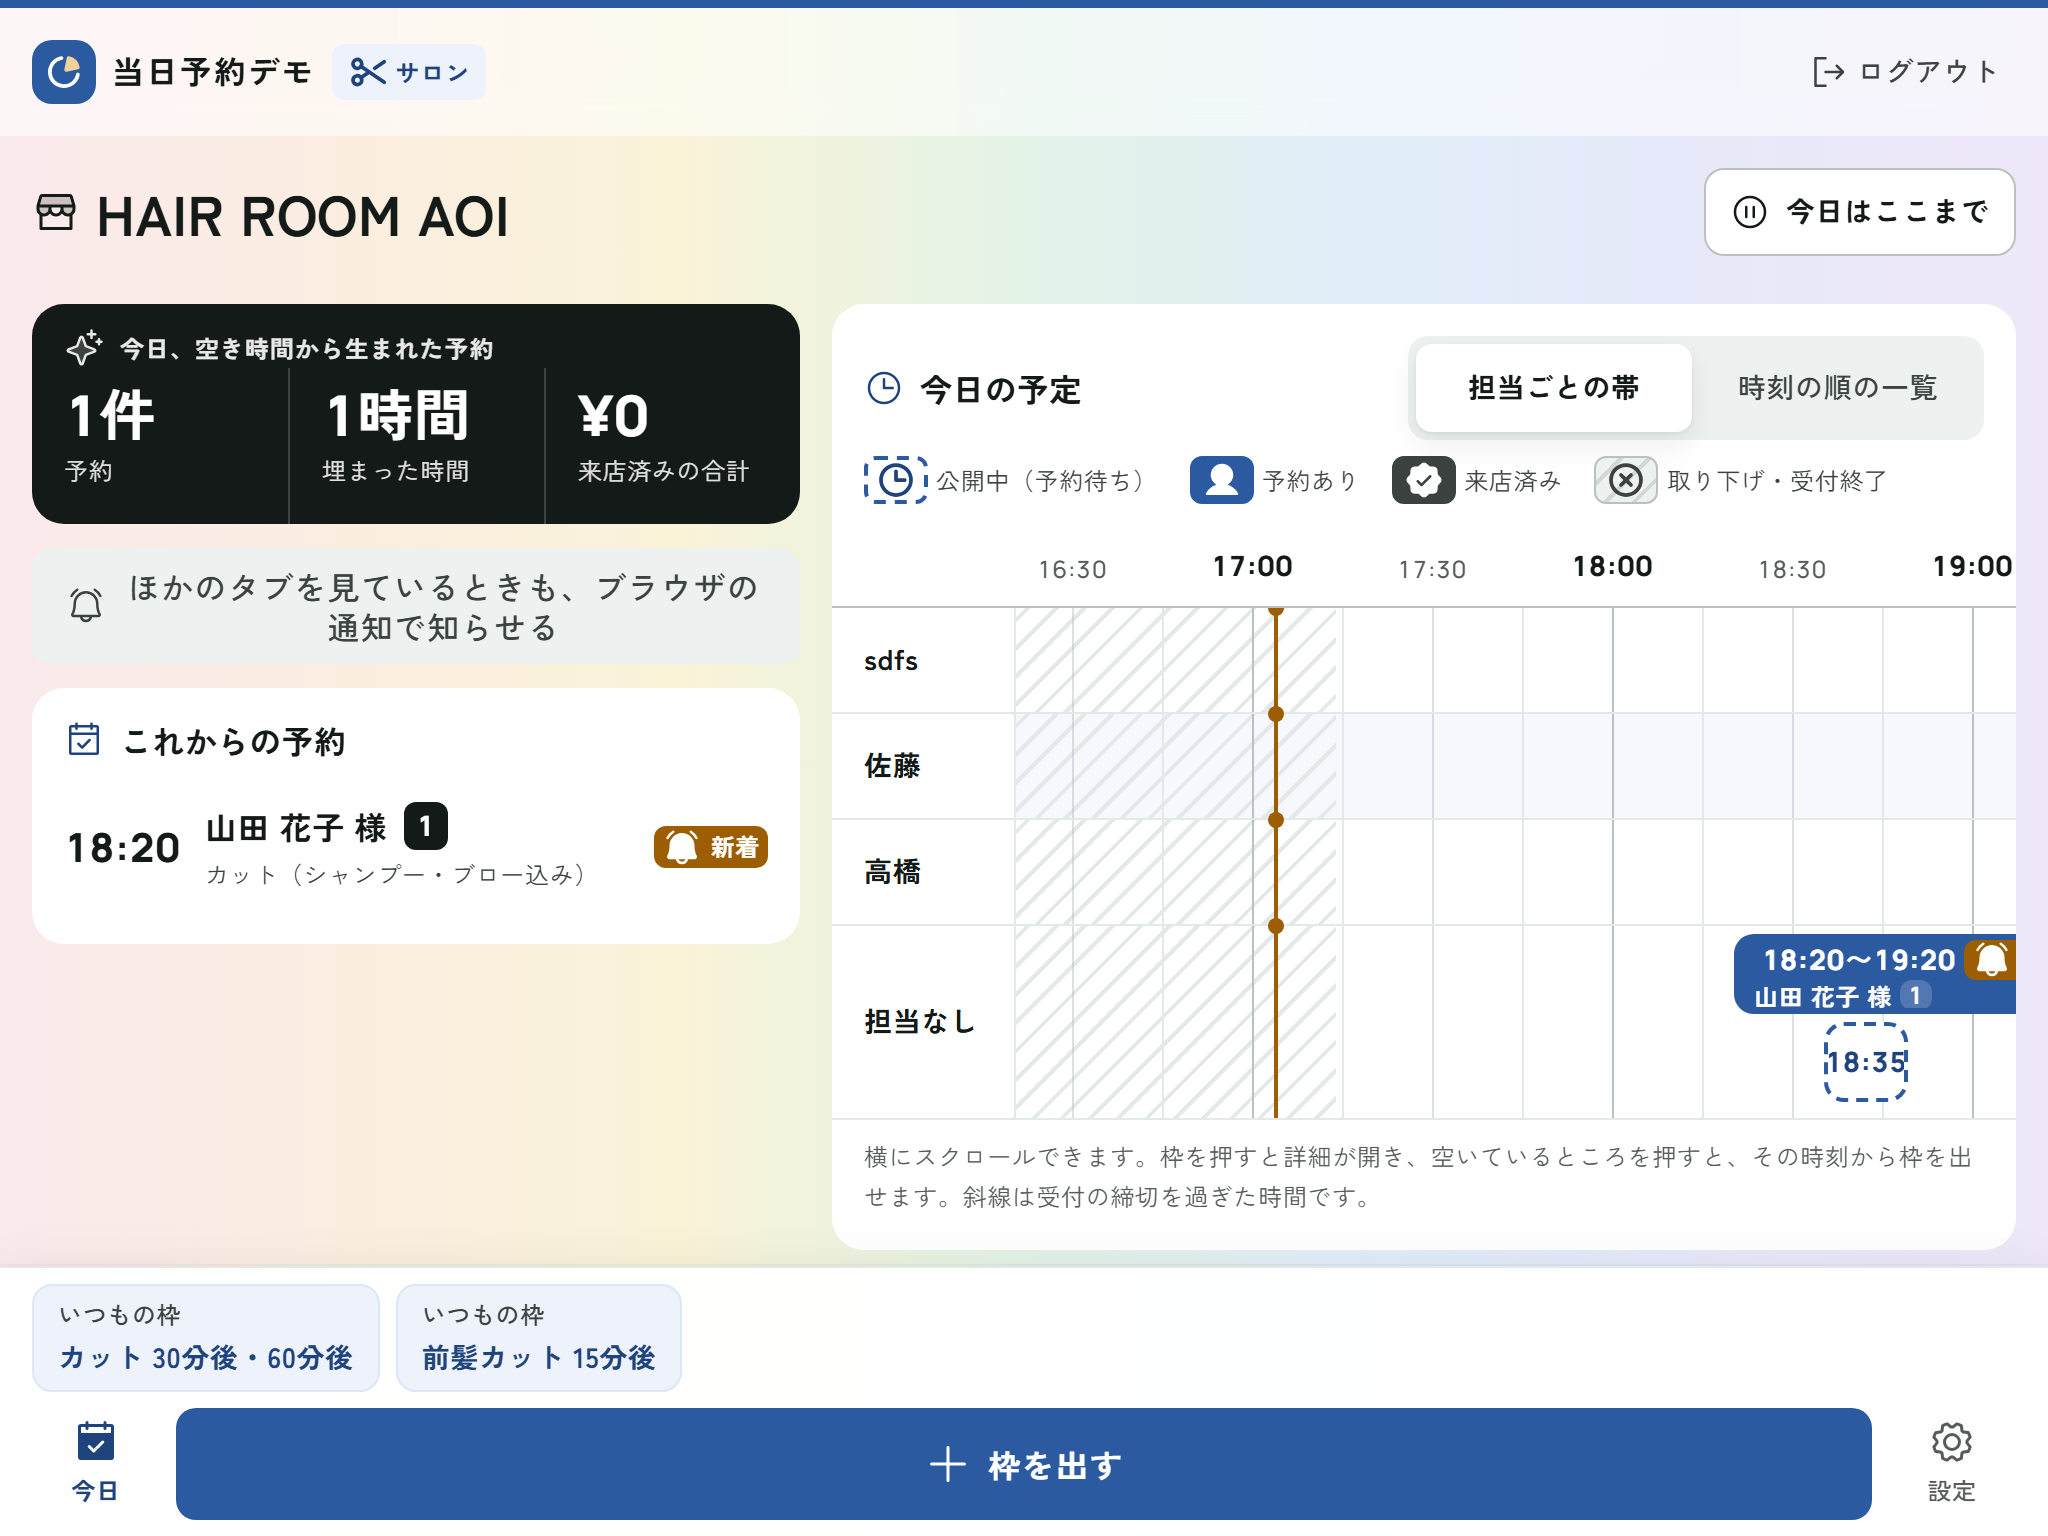
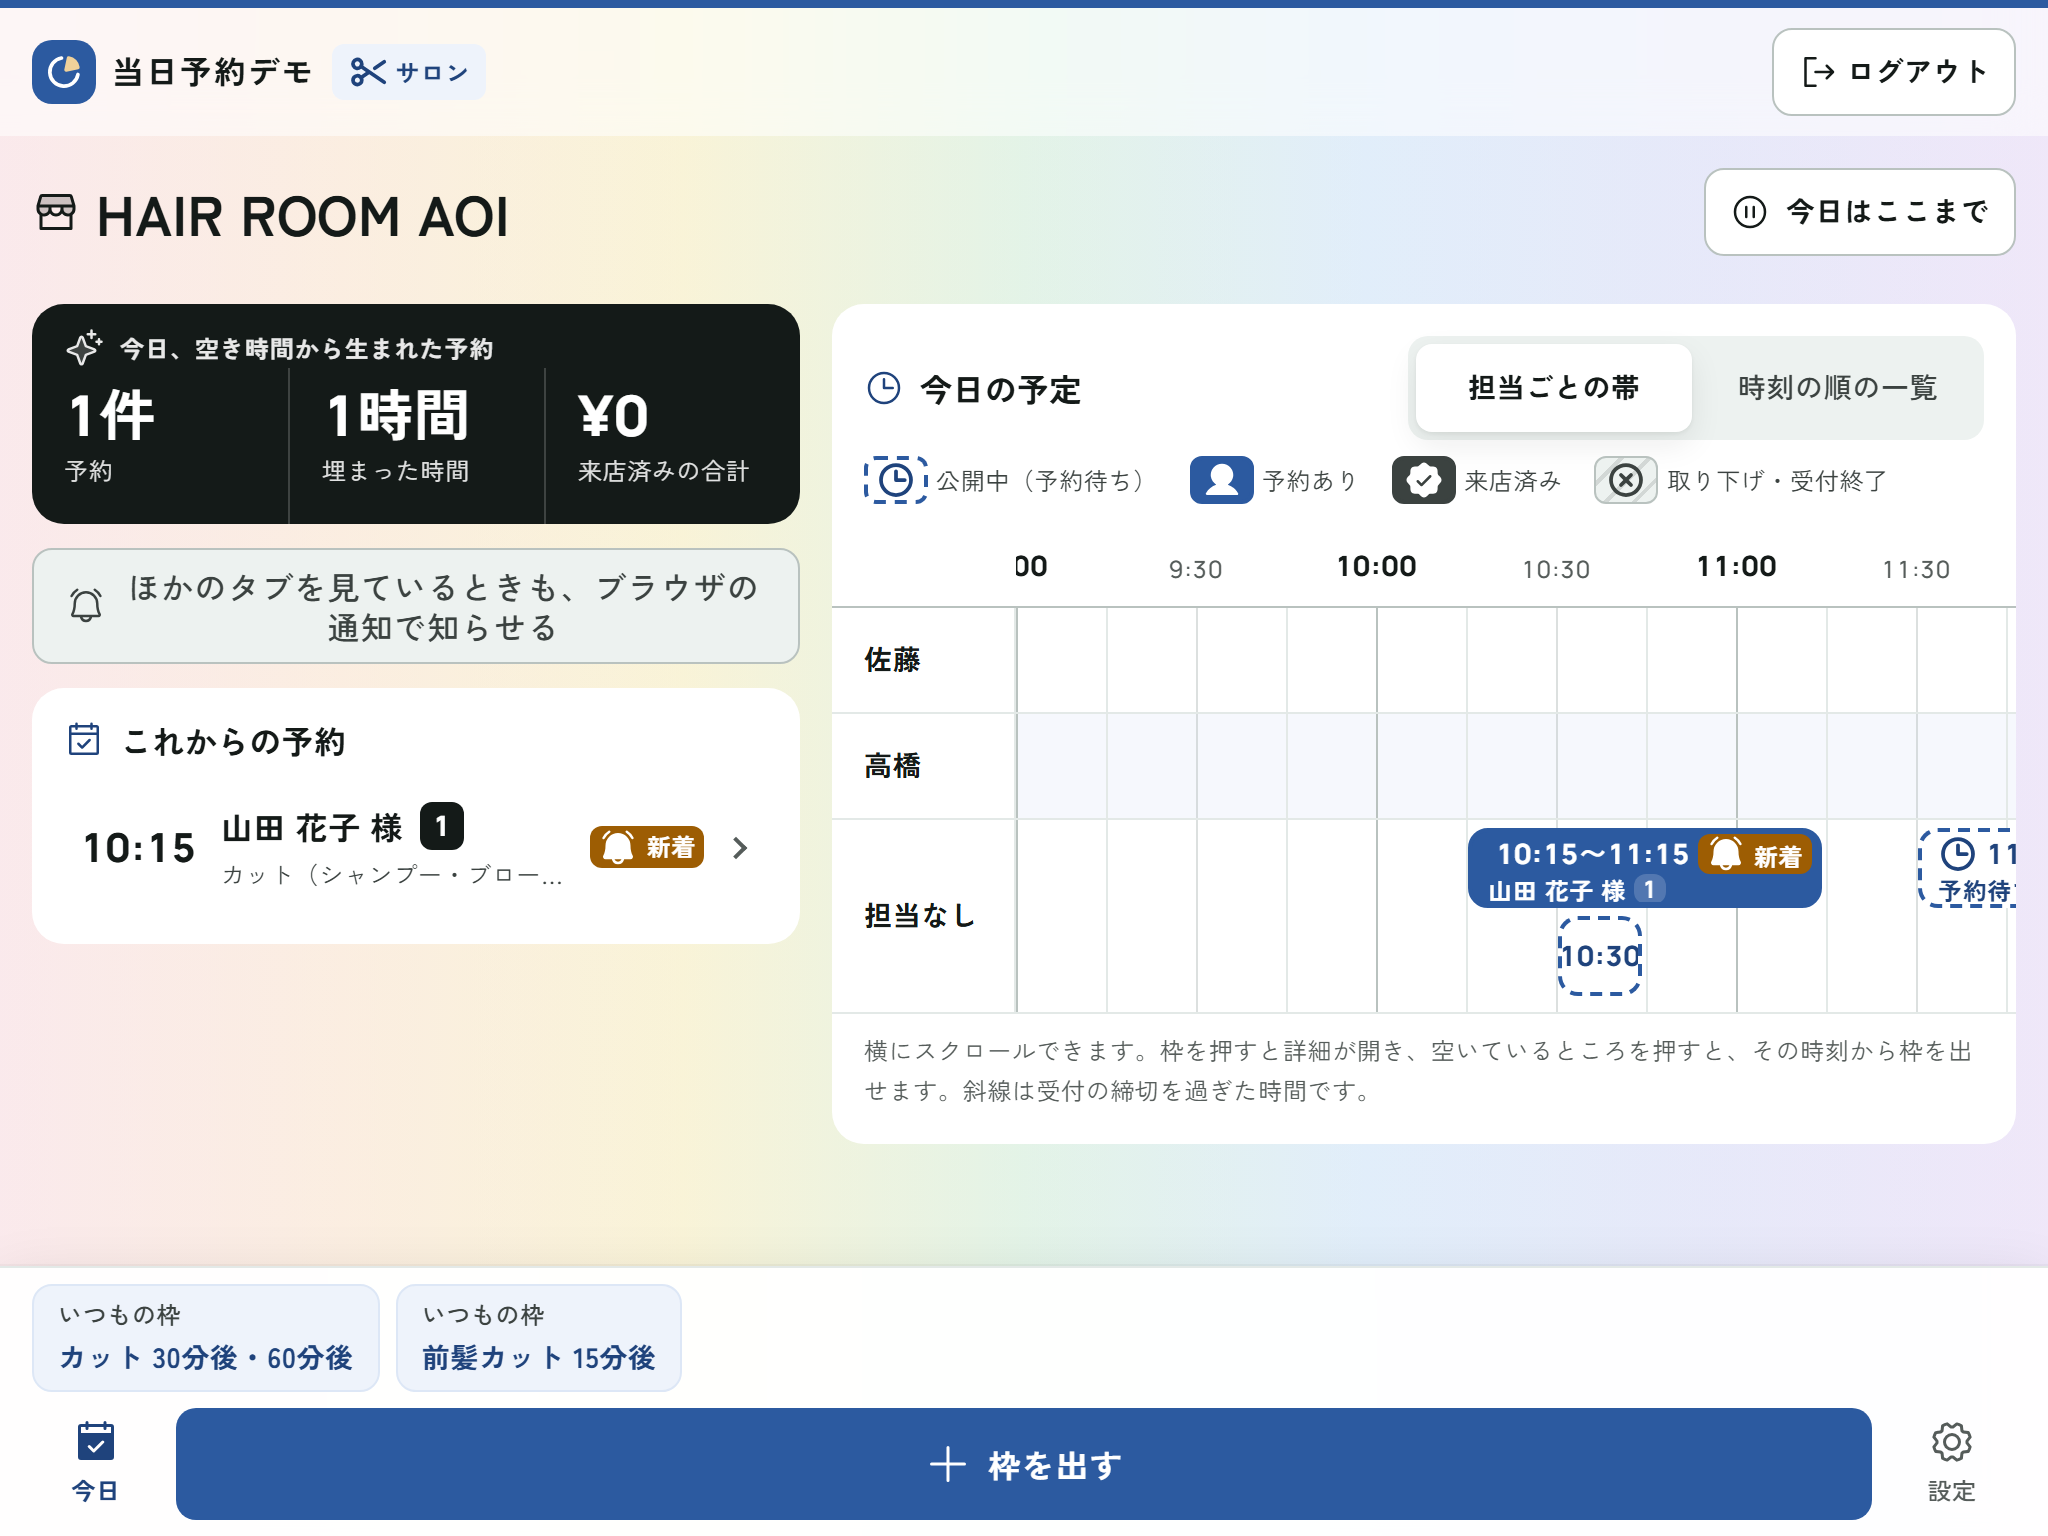
ボタンを文字と見分けやすく（CSS のみ。機能・画面の構成・文言は変えない）
- 文字のボタン（現在地を使う・わかった・戻る・閉じる・ログアウト・掲載を止める・削除・外す など23か所）：文字の色で薄く塗った面と線を付ける（危険の操作は赤の線）
- 上部の帯の移動先（ホーム・マイページ・ログアウト）：白い面と線のボタンに
- 控えめのボタン（元に戻す・あとで など）：沈んだ面に線を足す
- ログインのデモ用アカウントの札に線、パスワードの「表示」に沈んだ面
- サロンの「これからの予約」の行：右端の「›」と、ポインタを重ねたときの面
- 予約の詳細の電話番号（押すと電話）もボタンの見た目に。文字のボタンに合わせていた負の余白（運営のサロン一覧・表の操作・お知らせ・新規登録の「戻る」）をなくし、面と線がはみ出さないように
- 確認：axe 32画面で指摘なし、ブラウザでの通しの確認（掲載申込 45・新規登録 36・ログアウト 17・掲載の流れ 20・掲載停止 10・全体 60）すべて合格。docs/screens/after を撮り直し

diff --git a/components/ui/Button.module.css b/components/ui/Button.module.css
@@ -74,27 +74,33 @@
   border-color: var(--color-ink-sub);
 }
 
+/* 控えめ：沈んだ面に線を足し、ただの面（文字の背景）ではなく押せるものだと分かるようにする */
 .quiet {
   background: var(--color-surface-sunken);
+  border-color: var(--color-line-strong);
   color: var(--color-ink-2);
   font-weight: var(--weight-medium);
 }
 
 .quiet:hover:not(:disabled) {
   background: var(--color-line);
+  border-color: var(--color-ink-sub);
 }
 
+/* 文字の操作（戻る・閉じる・現在地を使う・ログアウトなど）：文字だけだと本文と見分けにくいため、
+   文字の色で薄く塗った面と線を付ける（危険の操作で文字が赤なら、面と線も赤になる） */
 .text {
   min-block-size: var(--tap-min);
-  padding-inline: var(--space-2);
-  background: none;
+  padding-inline: var(--space-3);
+  border-color: color-mix(in srgb, currentColor 60%, transparent);
+  background: color-mix(in srgb, currentColor 7%, transparent);
   color: var(--color-action-text);
-  font-weight: var(--weight-medium);
+  font-weight: var(--weight-bold);
 }
 
 .text:hover:not(:disabled) {
-  text-decoration: underline;
-  text-underline-offset: 0.25em;
+  border-color: currentColor;
+  background: color-mix(in srgb, currentColor 14%, transparent);
 }
 
 .danger {

diff --git a/components/salon/SalonApp.module.css b/components/salon/SalonApp.module.css
@@ -169,18 +169,36 @@
   border-block-start: 1px solid var(--color-line);
 }
 
+/* これからの予約の行：行全体が予約の詳細を開くボタン。右端の「›」と、ポインタを重ねたときの面で、押せる行だと分かるようにする */
 .upItem {
   display: grid;
-  grid-template-columns: auto 1fr auto;
+  grid-template-columns: auto 1fr auto auto;
   align-items: center;
   gap: var(--space-3);
   inline-size: 100%;
   min-block-size: var(--space-16);
-  padding: var(--space-2) 0;
+  padding: var(--space-2) var(--space-2);
   border: 0;
+  border-radius: var(--radius-control);
   background: none;
   color: var(--color-ink);
   text-align: start;
+  cursor: pointer;
+  transition: background-color var(--motion-short) var(--ease-out);
+}
+
+.upItem::after {
+  content: "";
+  inline-size: var(--space-2);
+  block-size: var(--space-2);
+  margin-inline-end: var(--space-1);
+  border-block-start: 2px solid var(--color-ink-sub);
+  border-inline-end: 2px solid var(--color-ink-sub);
+  transform: rotate(45deg);
+}
+
+.upItem:hover {
+  background: var(--color-surface-sunken);
 }
 
 .upItem:hover .upName {

diff --git a/components/AppHeader.module.css b/components/AppHeader.module.css
@@ -51,26 +51,31 @@
   gap: var(--space-1);
 }
 
+/* 上部の帯の移動先（ホーム・マイページ・ログアウトなど）：文字だけに見えないよう、白い面と線のボタンにする */
 .nav a,
 .nav button {
   display: inline-flex;
   align-items: center;
   gap: var(--space-1);
   min-block-size: var(--tap-min);
-  padding-inline: var(--space-2);
-  border: 0;
+  padding-inline: var(--space-3);
+  border: 1px solid var(--color-line-strong);
   border-radius: var(--radius-control);
-  background: none;
-  color: var(--color-ink-2);
+  background: var(--color-surface);
+  color: var(--color-ink);
   font-size: var(--text-small);
-  font-weight: var(--weight-medium);
+  font-weight: var(--weight-bold);
   text-decoration: none;
+  cursor: pointer;
+  transition:
+    background-color var(--motion-short) var(--ease-out),
+    border-color var(--motion-short) var(--ease-out);
 }
 
 .nav a:hover,
 .nav button:hover {
+  border-color: var(--color-ink-sub);
   background: var(--color-surface-sunken);
-  color: var(--color-ink);
 }
 
 /* 入口の画面の「どのページか」の帯 */

diff --git a/components/LoginBox.module.css b/components/LoginBox.module.css
@@ -27,7 +27,8 @@
   min-block-size: calc(var(--tap-min) + var(--space-1));
   padding-block: var(--space-2);
   padding-inline: var(--space-3);
-  border: 0;
+  /* デモ用のアカウント：沈んだ面に線を足し、押せる札だと分かるようにする */
+  border: 1px solid var(--color-line-strong);
   border-radius: var(--radius-control);
   background: var(--color-surface-sunken);
   color: var(--color-ink);
@@ -35,10 +36,14 @@
   font-weight: var(--weight-bold);
   line-height: var(--leading-tight);
   text-align: start;
-  transition: background-color var(--motion-short) var(--ease-out);
+  cursor: pointer;
+  transition:
+    background-color var(--motion-short) var(--ease-out),
+    border-color var(--motion-short) var(--ease-out);
 }
 
 .account:hover:not(:disabled) {
+  border-color: var(--color-ink-sub);
   background: var(--color-line);
 }
 

diff --git a/components/auth/PasswordInput.module.css b/components/auth/PasswordInput.module.css
@@ -25,8 +25,10 @@
   border-inline-start: 1px solid var(--color-line);
   border-start-end-radius: calc(var(--radius-control) - 1px);
   border-end-end-radius: calc(var(--radius-control) - 1px);
-  background: transparent;
+  /* 入力欄の中の「表示」：沈んだ面にして、入力した文字ではなく押せるものだと分かるようにする */
+  background: var(--color-surface-sunken);
   color: var(--color-ink-2);
+  cursor: pointer;
   font-size: var(--text-small);
   font-weight: var(--weight-bold);
   line-height: var(--leading-tight);
@@ -36,7 +38,7 @@
 }
 
 .toggle:hover {
-  background: var(--color-surface-sunken);
+  background: var(--color-line);
   color: var(--color-ink);
 }
 

diff --git a/components/admin/Salons.module.css b/components/admin/Salons.module.css
@@ -25,11 +25,10 @@ td small.warn {
   font-weight: var(--weight-bold);
 }
 
-/* セルの中の文字のボタン：押せる大きさを保ったまま、行の高さを抑える */
+/* セルの中の操作のボタン：ラベルとの間を少しあけ、面と線のボタンとして並べる */
 .cellAction {
   white-space: nowrap;
-  margin-block: calc(-1 * var(--space-1));
-  margin-inline-start: calc(-1 * var(--space-2));
+  margin-block-start: var(--space-1);
 }
 
 button.danger {

diff --git a/components/admin/AdminTable.module.css b/components/admin/AdminTable.module.css
@@ -75,13 +75,11 @@
   text-align: end;
 }
 
-/* セルの中の操作（文字のボタン）を縦にそろえる */
+/* セルの中の操作（面と線のボタン）を横に並べる */
 .actions {
   display: flex;
   flex-wrap: nowrap;
   white-space: nowrap;
   align-items: center;
-  gap: 0 var(--space-1);
-  margin-block: calc(-1 * var(--space-2));
-  margin-inline-start: calc(-1 * var(--space-2));
+  gap: 0 var(--space-2);
 }

diff --git a/components/salon/SlotPanel.module.css b/components/salon/SlotPanel.module.css
@@ -163,8 +163,9 @@
 }
 
 /* 電話番号は押しやすい大きさの文字のリンク */
+/* お客様の電話番号（押すと電話をかける）：ほかの文字の操作と同じく、面と線のボタンとして見せる */
 .tel {
-  margin-inline-start: calc(-1 * var(--space-2));
+  align-self: flex-start;
   font-family: var(--font-num);
   font-size: var(--text-body);
   font-variant-numeric: tabular-nums;

diff --git a/components/admin/AdminApp.module.css b/components/admin/AdminApp.module.css
@@ -182,8 +182,7 @@
 }
 
 .also {
-  margin-block-start: var(--space-1);
-  margin-inline-start: calc(-1 * var(--space-2));
+  margin-block-start: var(--space-2);
 }
 
 /* 「あとで」は文字の幅、主な操作は残りの幅いっぱい（狭い画面でも1行に収める） */

diff --git a/components/user/FirstSteps.module.css b/components/user/FirstSteps.module.css
@@ -84,6 +84,6 @@
 
 .close {
   position: absolute;
-  inset-block-start: var(--space-1);
-  inset-inline-end: var(--space-1);
+  inset-block-start: var(--space-2);
+  inset-inline-end: var(--space-2);
 }

diff --git a/components/user/Signup.module.css b/components/user/Signup.module.css
@@ -16,7 +16,6 @@
 
 .stepHead > button {
   flex: none;
-  margin-block-start: calc(-1 * var(--space-2));
   white-space: nowrap;
 }
 
